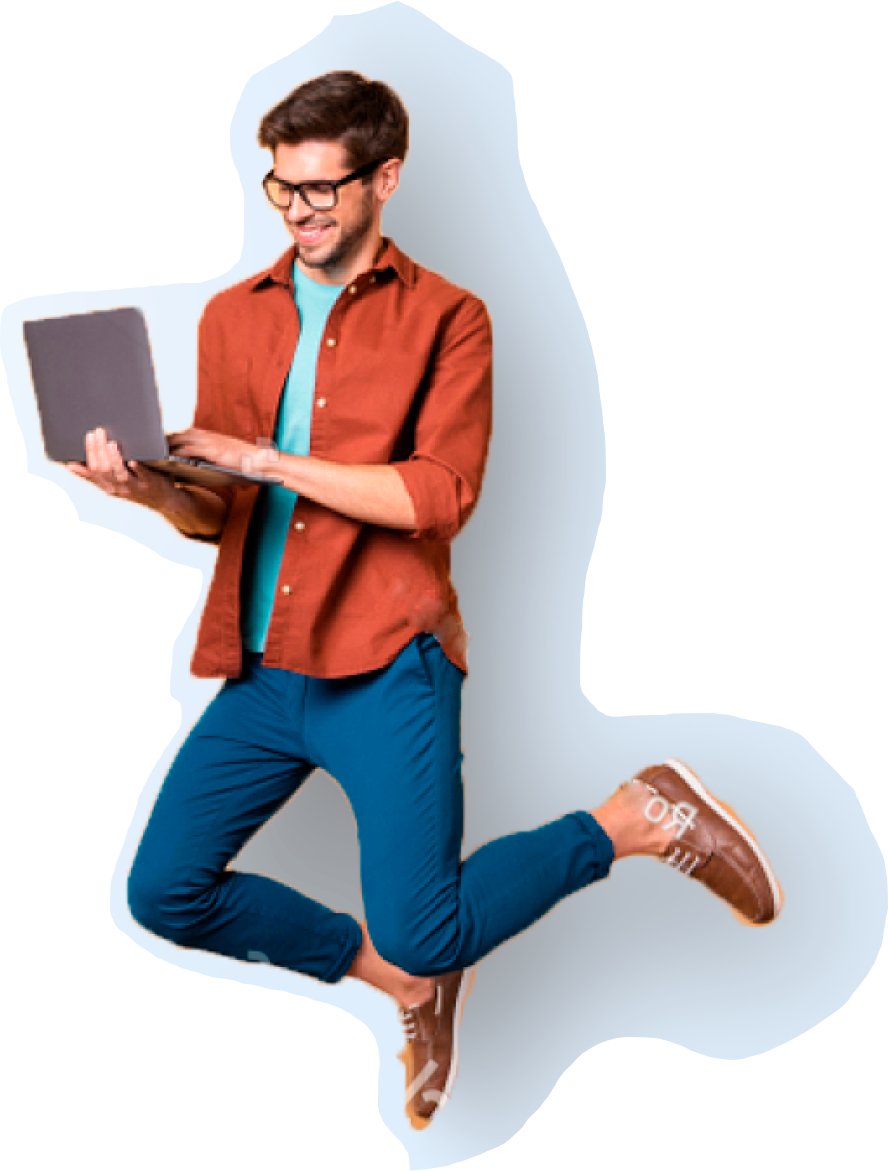
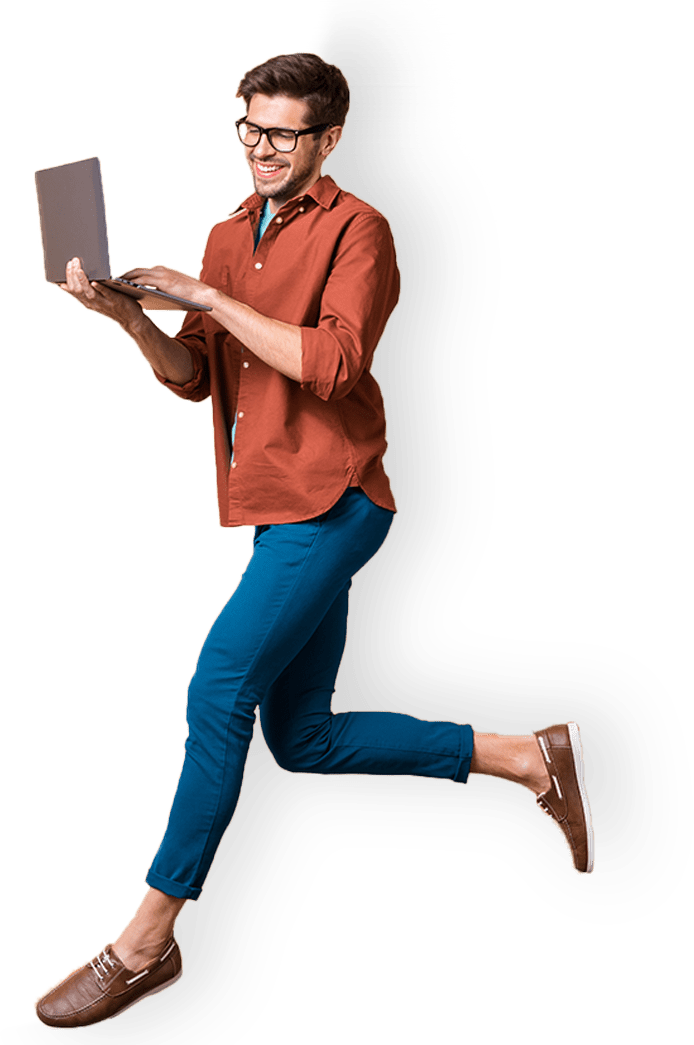
header bg

diff --git a/css/color.css b/css/color.css
@@ -10,8 +10,9 @@ color: #1064E5;
 }
 /*Цвет фона/фон*/
 .header_container{
-	background:url(../image/header/header_img.jpg) right top no-repeat,
- url(../image/header/header_bg.png) ;
+	background:url(../image/header/header_man.png) right center / 375px  no-repeat , 
+	linear-gradient(293.97deg, #FFFFFF -9.96%, rgba(255, 255, 255, 0) 111.88%),
+	url(../image/header/header_bg.png);
 }
 /**/
 .blog .header_container, 
@@ -48,8 +49,6 @@ color: #1064E5;
 
 /*Медиазапрос при 992px ширины экрана*/
 @media(max-width: 992px){
-.header_container{
-	background:url(../image/header/header_img.jpg) right -125px top no-repeat, 
-	url(../image/header/header_bg.png);
+
 }
 };
